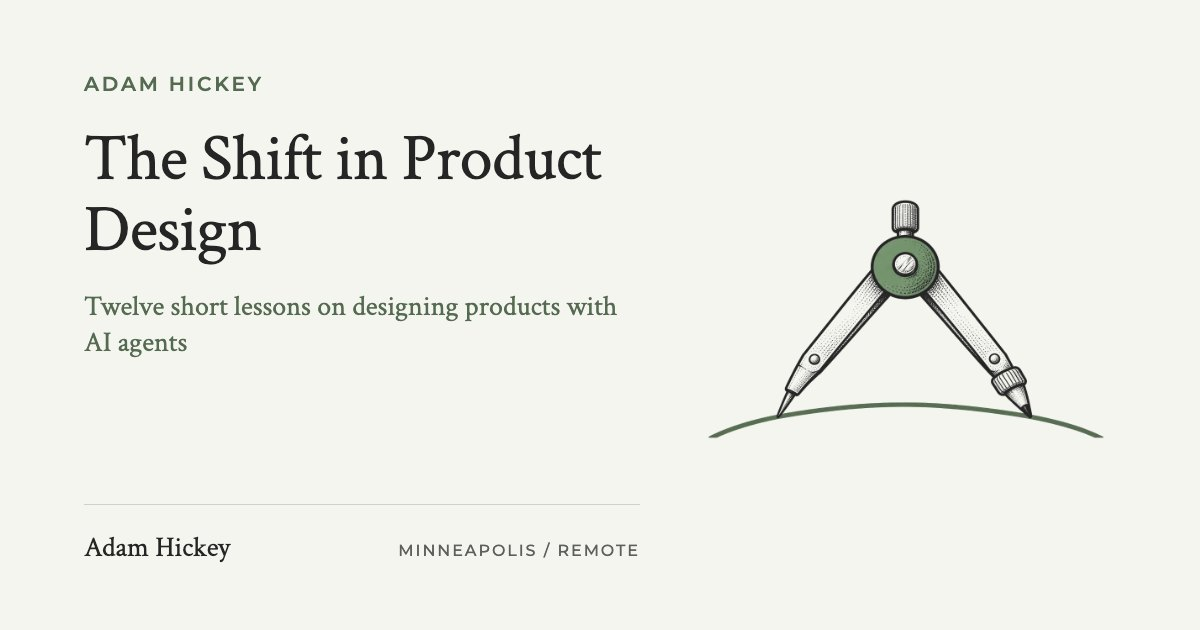
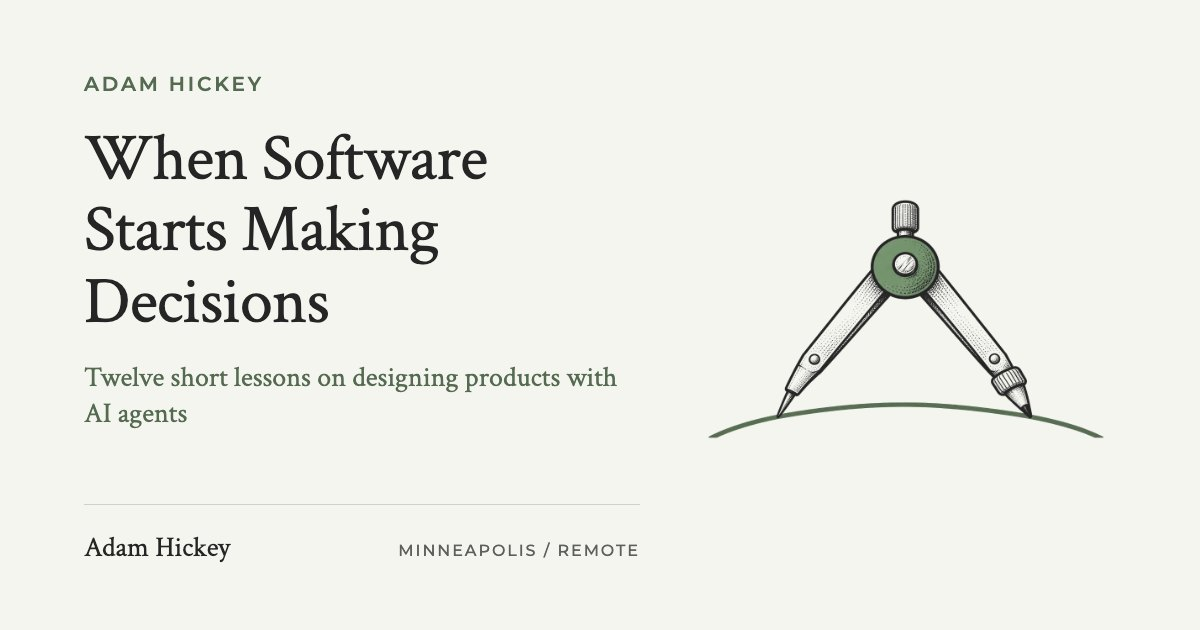
The Shift: the series is titled When Software Starts Making Decisions
The landing's headline, its CollectionPage name, the share card, llms.txt,
the forwarding note, and the README's family row all carry the new title.
The <title> and og:title keep their search wording on purpose.

Changed region(s): [[0.0617, 0.4222, 0.5242, 0.6937], [0.0617, 0.2111, 0.4933, 0.3016], [0.0617, 0.3317, 0.37, 0.4222]]

diff --git a/writing/index.html b/writing/index.html
@@ -19,7 +19,7 @@
   <meta property="og:url" content="https://adamhickey.com/writing/index.html" />
   <meta property="og:title" content="The Shift: Twelve Short Lessons on Designing Products With AI Agents | Adam Hickey" />
   <meta property="og:description" content="The Shift: twelve short lessons on how product design changes when software can act on its own, from designing the task instead of the app to what an AI agent is made of, how to plan an AI product, and what to redesign first." />
-  <meta property="og:image" content="https://adamhickey.com/img/og/writing.jpg?v=3" />
+  <meta property="og:image" content="https://adamhickey.com/img/og/writing.jpg?v=4" />
   <meta property="og:image:width" content="1200" />
   <meta property="og:image:height" content="630" />
   <meta name="twitter:card" content="summary_large_image" />
@@ -34,7 +34,7 @@
         {
           "@type": "CollectionPage",
           "@id": "https://adamhickey.com/writing/index.html#page",
-          "name": "The Shift in Product Design",
+          "name": "When Software Starts Making Decisions",
           "description": "Twelve short lessons in four chapters on how product design changes when software can act on its own: the job, the agent, the product, and practice. Each takes one idea from someone working on it and tests it against something Adam has built.",
           "url": "https://adamhickey.com/writing/index.html",
           "isPartOf": {
@@ -260,7 +260,7 @@
         <div class="shift-hero-grid">
           <div>
             <p class="shift-series-label">A short course</p>
-            <h1 class="case-title">The Shift in Product Design, Now That Software Acts on Its Own</h1>
+            <h1 class="case-title">When Software Starts Making Decisions</h1>
             <p class="build-dek">Each lesson takes one idea from someone working on it, tests it against something I&rsquo;ve built, and ends on two questions for your own team.</p>
             <ul class="shift-facts">
               <li><strong>12</strong> lessons</li>

diff --git a/writing/my-next-design-challenge.html b/writing/my-next-design-challenge.html
@@ -17,6 +17,6 @@
   <meta name="color-scheme" content="light" />
 </head>
 <body>
-  <p>This article is part of <a href="index.html">The Shift in Product Design</a> now.</p>
+  <p>This article is part of <a href="index.html">When Software Starts Making Decisions</a> now.</p>
 </body>
 </html>

diff --git a/README.md b/README.md
@@ -207,7 +207,7 @@ Tailwind stylesheet, which could not see anything `style.css` declares. Since
 | Client case studies | 5 | A | Client work under NDA-safe framing. The oldest pages on the site. |
 | Build write-ups | 5 | A | Products built end to end, alone, and this site. Faunaform, since 2026-10-20, is the first still in progress. |
 | How I work | 1 | A | One page for the four parts of the job: the situation, the moves, and the account that shows each. Four pages under `engagement/` until 2026-10-29, engagement pages until 2026-09-17. |
-| Writing | 13 | A | The Shift in Product Design, since 2026-11-14: an index and twelve short lessons in four chapters, each one outside idea tested against something on this site, in a fixed reading order. The articles before it are forwarding notes to the lesson their argument lives in now. |
+| Writing | 13 | A | When Software Starts Making Decisions (The Shift), since 2026-11-14: an index and twelve short lessons in four chapters, each one outside idea tested against something on this site, in a fixed reading order. The articles before it are forwarding notes to the lesson their argument lives in now. |
 | Reference | 1 | A | The design system page. Unlisted; nothing links to it. |
 | Prototypes | 1 | A | Self-directed, interactive prototypes framed as design work: the dispatch cockpit on synthetic data. Its interface on live Citi Bike data, the rebalancing cockpit, was a second from 2026-10-27 to 2026-10-29, when the lab went back to the dispatch story and its address became a forwarding note. The deploy console was a second until 2026-10-23, and The Shortlist's prototype had a page here from 2026-10-28 until it moved into its write-up's hero the next day. |
 | Lab | 5 | A | The index of the working prototypes, each asking one question about a connected service, a design system, a live operation, or an enterprise workflow (since 2026-10-28; it was "Design systems for humans and agents" before), the Agent Review case study, since 2026-11-06 After Send, an independent commercial payments concept following one virtual payment from the buyer to the supplier and back, since 2026-10-28 The Shortlist, a service design exploration of one shopping trip across phone, store, and person, and since 2026-10-21 an exploration of motion, the homepage's former scroll story. The dispatch cockpit is listed there too, at its own address; the rebalancing cockpit took its place from 2026-10-27 to 2026-10-29. Since 2026-10-01 the homepage reaches it from one card under Selected work and from the navigation. |

diff --git a/writing/NARRATIVE_INK_PANORAMA.md b/writing/NARRATIVE_INK_PANORAMA.md
@@ -1,6 +1,6 @@
 # Narrative Ink Panorama: The Shift's illustration system
 
-**Scope.** The drawings in The Shift in Product Design: the series landing
+**Scope.** The drawings in When Software Starts Making Decisions (The Shift): the series landing
 (`writing/index.html`), the twelve lessons, and the four share-card pictures
 `scripts/og.mjs` names. This document governs editorial illustration only.
 It does not override `COLOR.md`, `TYPOGRAPHY.md`, the site's interface icons,
